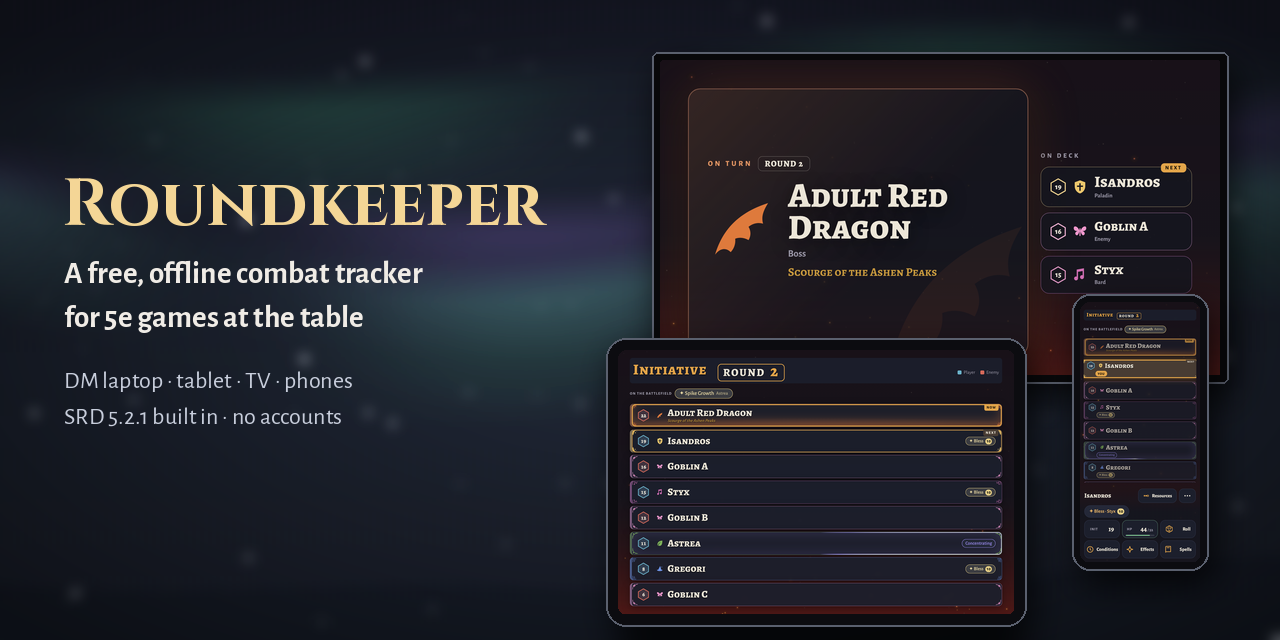
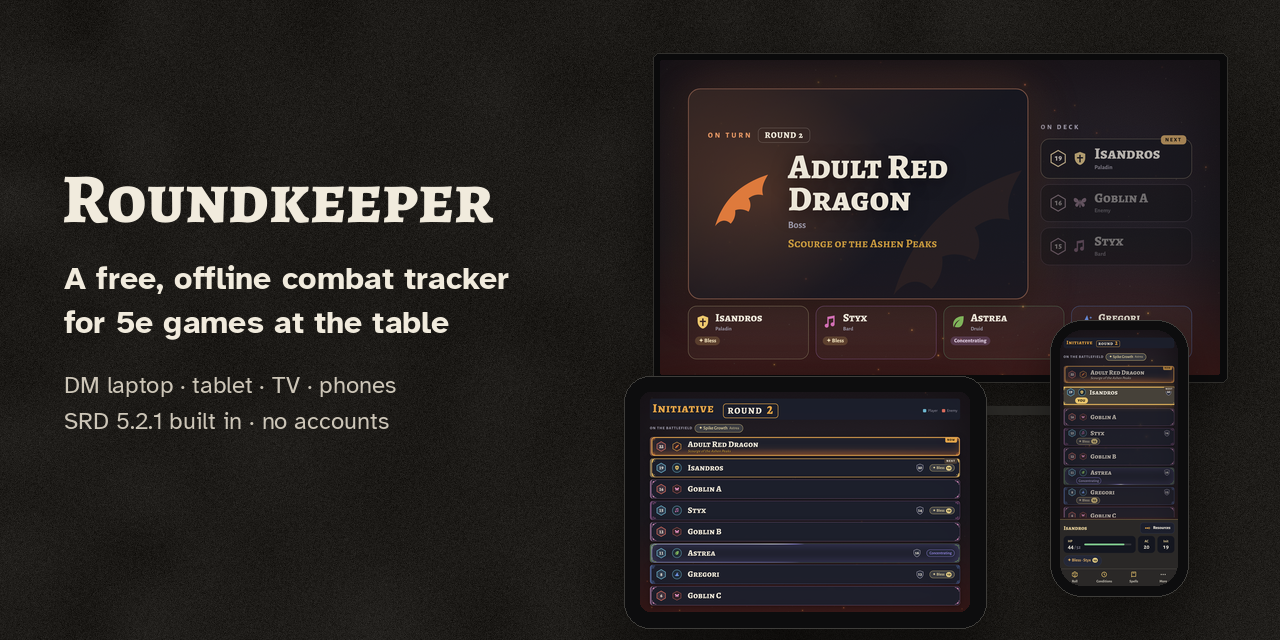
README: new videos and pictures
The four README videos are replaced with the new recordings, and every
picture is re-shot from the current app: the DM screen at 1536x864,
Party numbers and Devices as whole windows instead of crops, and the
four-screens picture and social preview redrawn in the look.py style.

Claude-Session: https://claude.ai/code/session_019XQztvrfV9fia7XPRZw9Pc

diff --git a/dev/media/four.py b/dev/media/four.py
@@ -1,36 +1,18 @@
 import sys as _sys,os as _os;_sys.path.insert(0,_os.path.dirname(_os.path.abspath(__file__)));_sys.path.insert(0,_os.path.dirname(_os.path.dirname(_os.path.abspath(__file__))));import rk  # dev/rk.py
-# One fight, four screens: the stills on the backdrop
-import bgs
-O=rk.MEDIA+'/stills/'
-from PIL import Image,ImageDraw,ImageFont,ImageFilter
-W,H=2400,1340
-bg=bgs.scene(W,H)
-F=rk.font('sansbold',40);Fs=rk.font('sans',28)
-def shadow(box,r):
-    sh=Image.new('L',(W,H),0);ImageDraw.Draw(sh).rounded_rectangle(box,r,fill=170);return sh.filter(ImageFilter.GaussianBlur(26))
-def device(img,x,y,w,h,bez,r,col=(12,12,16)):
-    global bg
-    box=(x-bez,y-bez,x+w+bez,y+h+bez)
-    bg=Image.composite(Image.new('RGB',(W,H),(0,0,0)),bg,shadow((box[0]+10,box[1]+24,box[2]+10,box[3]+24),r))
-    dd=ImageDraw.Draw(bg);dd.rounded_rectangle(box,r,fill=col,outline=(90,96,110),width=2)
-    s=Image.open(img).convert('RGB').resize((w,h),Image.LANCZOS);m=Image.new('L',(w,h),0);ImageDraw.Draw(m).rounded_rectangle((0,0,w,h),max(4,r-bez),fill=255);bg.paste(s,(x,y),m)
-def label(x,y,t,sub=""):
-    dd=ImageDraw.Draw(bg);dd.text((x,y),t,font=F,fill=(244,214,150))
-    if sub:dd.text((x,y+50),sub,font=Fs,fill=(205,195,180))
-lx,ly,lw,lh=80,230,1110,694
-device(O+'s_dm.png',lx,ly,lw,lh,16,18)
-dd=ImageDraw.Draw(bg);dd.polygon([(lx-70,ly+lh+16),(lx+lw+70,ly+lh+16),(lx+lw+20,ly+lh+52),(lx-20,ly+lh+52)],fill=(52,50,58),outline=(80,76,84));dd.rounded_rectangle((lx+lw/2-90,ly+lh+16,lx+lw/2+90,ly+lh+26),5,fill=(36,34,40))
-label(lx,ly+lh+90,"DM laptop","Runs the fight: monster HP, statblocks and hidden enemies stay here.")
-tx,ty,tw,th=1290,170,1040,585
-device(O+'s_tv.png',tx,ty,tw,th,14,10,(8,8,10))
-dd=ImageDraw.Draw(bg);dd.rectangle((tx+tw/2-14,ty+th+14,tx+tw/2+14,ty+th+56),fill=(40,38,44));dd.rounded_rectangle((tx+tw/2-170,ty+th+52,tx+tw/2+170,ty+th+64),6,fill=(48,46,52))
-label(tx,48,"TV","Whose turn it is, big enough to read across the room.")
-ax,ay,aw,ah=1300,870,555,370
-device(O+'s_tablet.png',ax,ay,aw,ah,22,30)
-label(ax-22,ay+ah+36,"Tablet on the table")
-px,py,pw,ph=1985,826,196,424
-device(O+'s_phone.png',px,py,pw,ph,12,30)
-label(px+10,py+ph+28,"Phones")
-label(80,60,"","")
-dd=ImageDraw.Draw(bg);FT=rk.font('cinzel',64);dd.text((80,56),"Roundkeeper",font=FT,fill=(244,214,150));dd.text((82,140),"One fight, four screens. Free, offline, on your own Wi-Fi.",font=Fs,fill=(205,195,180))
-bg.save(rk.MEDIA+'/four.png')
+# One fight, four screens: the stills on the table surface (look.py), for the top of the README
+from PIL import Image,ImageDraw
+import look
+O=rk.MEDIA+'/stills/';W,H=2400,1340
+im=look.surface(W,H)
+def put(im,kind,src,x,y,w,h):
+    im,r=look.device(im,kind,x,y,w,h);s=Image.open(O+src).convert('RGB').resize((w,h),Image.LANCZOS);im.paste(s,(x,y),look.mask(w,h,r));return im
+im=put(im,'laptop','s_dm.png',100,300,1180,664)
+im=put(im,'tv','s_tv.png',1420,160,860,484)
+im=put(im,'tablet','s_tablet.png',1420,800,560,373)
+im=put(im,'phone','s_phone.png',2070,760,190,411)
+d=ImageDraw.Draw(im,'RGBA')
+for t,x,y in (("The DM's laptop",100,262),("TV across the room",1420,122),("Tablet on the table",1420,762),("Phone",2070,722)): look.label(d,t,x,y,22)
+d.text((100,70),"Roundkeeper",font=look.font('title',64),fill=look.INK)
+d.text((104,160),"One fight, four screens. Free, offline, on your own Wi-Fi.",font=look.font('text',32),fill=(214,207,193))
+look.caption(d,"The dragon's turn, everywhere at once",100,1080,1200,size=40,sub="Monster HP, statblocks and hidden enemies stay on the laptop; the table sees only what you show.")
+im.save(rk.MEDIA+'/four.png')

diff --git a/dev/media/social.py b/dev/media/social.py
@@ -1,25 +1,16 @@
 import sys as _sys,os as _os;_sys.path.insert(0,_os.path.dirname(_os.path.abspath(__file__)));_sys.path.insert(0,_os.path.dirname(_os.path.dirname(_os.path.abspath(__file__))));import rk  # dev/rk.py
-# The 1280x640 social preview
-from PIL import Image,ImageDraw,ImageFont,ImageFilter
-import bgs
-O=rk.MEDIA+'/stills/'
-W,H=1280,640
-bg=bgs.scene(W,H)
-def device(img,x,y,w,h,bez,r,col=(12,12,16)):
-    global bg
-    box=(x-bez,y-bez,x+w+bez,y+h+bez)
-    sh=Image.new('L',(W,H),0);ImageDraw.Draw(sh).rounded_rectangle((box[0]+6,box[1]+14,box[2]+6,box[3]+14),r,fill=180);sh=sh.filter(ImageFilter.GaussianBlur(16))
-    bg=Image.composite(Image.new('RGB',(W,H),(0,0,0)),bg,sh)
-    d=ImageDraw.Draw(bg);d.rounded_rectangle(box,r,fill=col,outline=(90,96,110),width=2)
-    s=Image.open(img).convert('RGB').resize((w,h),Image.LANCZOS);m=Image.new('L',(w,h),0);ImageDraw.Draw(m).rounded_rectangle((0,0,w,h),max(3,r-bez),fill=255);bg.paste(s,(x,y),m)
-device(O+'s_tv.png',660,60,560,315,8,6,(8,8,10))
-device(O+'s_tablet.png',618,350,396,264,12,20)
-device(O+'s_phone.png',1080,302,120,260,8,18)
-d=ImageDraw.Draw(bg)
-FT=rk.font('cinzel',66);FB=rk.font('sansbold',31);FR=rk.font('sans',24)
-d.text((62,160),"Roundkeeper",font=FT,fill=(244,214,150))
-d.text((64,258),"A free, offline combat tracker",font=FB,fill=(240,236,230))
-d.text((64,302),"for 5e games at the table",font=FB,fill=(240,236,230))
-d.text((64,368),"DM laptop · tablet · TV · phones",font=FR,fill=(200,206,220))
-d.text((64,404),"SRD 5.2.1 built in · no accounts",font=FR,fill=(200,206,220))
-bg.save(rk.MEDIA+'/social-preview.png')
+# The 1280x640 social preview, on the table surface (look.py)
+from PIL import Image,ImageDraw
+import look
+O=rk.MEDIA+'/stills/';W,H=1280,640
+im=look.surface(W,H)
+def put(im,kind,src,x,y,w,h):
+    im,r=look.device(im,kind,x,y,w,h);s=Image.open(O+src).convert('RGB').resize((w,h),Image.LANCZOS);im.paste(s,(x,y),look.mask(w,h,r));return im
+im=put(im,'tv','s_tv.png',660,60,560,315)
+im=put(im,'tablet','s_tablet.png',640,392,330,220)
+im=put(im,'phone','s_phone.png',1060,330,118,256)
+d=ImageDraw.Draw(im)
+d.text((62,150),"Roundkeeper",font=look.font('title',70),fill=look.INK)
+for i,t in enumerate(("A free, offline combat tracker","for 5e games at the table")): d.text((64,258+i*44),t,font=look.font('bold',32),fill=look.INK)
+for i,t in enumerate(("DM laptop · tablet · TV · phones","SRD 5.2.1 built in · no accounts")): d.text((64,370+i*36),t,font=look.font('text',24),fill=(205,198,184))
+im.save(rk.MEDIA+'/social-preview.png')

diff --git a/dev/media/stills.py b/dev/media/stills.py
@@ -12,7 +12,7 @@ async def main():
     want=lambda k: not only or k in only
     async with async_playwright() as p:
         b=await p.chromium.launch(args=['--no-proxy-server'])
-        dm=await (await b.new_context(viewport={'width':1440,'height':900},device_scale_factor=2)).new_page()
+        dm=await (await b.new_context(viewport={'width':1536,'height':864},device_scale_factor=2)).new_page()   # a 1920x1080 laptop at 125 %
         await dm.goto('http://127.0.0.1:8765/');await asyncio.sleep(1.5)
         async def S(js,w=0): await T(dm,js);await asyncio.sleep(w)
         await S(setup(TH,SC,False,"d")+BASE,.6)
@@ -43,7 +43,7 @@ async def main():
             await dm.screenshot(path=O+'g_ctrlk.png');await dm.keyboard.press('Escape');await asyncio.sleep(.3)
         if want('party'):
             await S("byId('i').pst={ac:18,pp:11,pi:13,pv:9,dc:14,at:Date.now()};byId('s').pst={ac:14,pp:12,pi:14,pv:11,dc:15,at:Date.now()};byId('a').pst={ac:15,pp:15,pi:15,pv:10,dc:14,at:Date.now()};byId('gr').pst={ac:12,pp:11,pi:11,pv:14,dc:15,at:Date.now()};commit();partySheet()",1)
-            await dm.screenshot(path=O+'g_party.png');await S("closeSheet()",.3)
+            await dm.locator('.sheet:visible').last.screenshot(path=O+'g_party.png');await S("closeSheet()",.3)
         if want('cond'):
             await S("byId('g1').conds.push('Restrained');byId('s').conds.push('Frightened');byId('i').conds.push('Prone');commit()",2.2)
             await tb.screenshot(path=O+'g_cond.png')
@@ -68,7 +68,7 @@ async def main():
             await S("state.ended=null;delete state.hdywt;state.cstat={};state.nstat={};for(const k of ['d','g1','g2','g3']){const g=byId(k);g.hp=g.hpMax;g.down=false};commit()",2)
         if want('devices'):
             import vrec;vrec.present();await asyncio.sleep(2.5)
-            await S("devSheet()",2.5);await dm.screenshot(path=O+'g_devices.png');await S("closeSheet()",.3)
+            await S("devSheet()",2.5);bb=await dm.locator('.sheet:visible').last.bounding_box();await dm.screenshot(path=O+'g_devices.png',clip=bb)   # (it redraws as phones check in);await S("closeSheet()",.3)
         if want('spells'):
             await T(ph,"pSheet='book';spellScope='all';bookQ='';renderPSheet()");await asyncio.sleep(2.5);await ph.screenshot(path=O+'g_spells.png')
             await T(ph,"spView={n:'Fireball',s:'SRD52',from:'book'};pSheet='spell';renderPSheet();refGet('spell','Fireball','SRD52',true).then(d=>{spView.d=d;renderPSheet()})");await asyncio.sleep(1.5);await ph.screenshot(path=O+'g_spell.png')

diff --git a/dev/media/publish.py b/dev/media/publish.py
@@ -15,8 +15,8 @@ def save(im,name,w=None,crop=None):
     im.save(os.path.join(D,name),quality=88,optimize=True,progressive=True);print('media/'+name,im.size)
 for dst,(src,w) in JPG.items():
     if os.path.exists(S+src+'.png'): save(Image.open(S+src+'.png'),dst+'.jpg',w)
-if os.path.exists(S+'g_party.png'): save(Image.open(S+'g_party.png'),'party.jpg',900,(850,450,2030,1340))  # the party sheet only
-if os.path.exists(S+'g_devices.png'): save(Image.open(S+'g_devices.png'),'devices.jpg',1000,(700,90,2180,1700))  # the Devices window only
+if os.path.exists(S+'g_party.png'): save(Image.open(S+'g_party.png'),'party.jpg',900)  # the party sheet only (an element shot)
+if os.path.exists(S+'g_devices.png'): save(Image.open(S+'g_devices.png'),'devices.jpg',1000)  # the Devices window only (an element shot)
 if os.path.exists(rk.MEDIA+'/four.png'): save(Image.open(rk.MEDIA+'/four.png'),'four-screens.jpg',1600)
 if os.path.exists(rk.MEDIA+'/social-preview.png'): shutil.copy(rk.MEDIA+'/social-preview.png',os.path.join(D,'social-preview.png'));print('media/social-preview.png')
 for g in ['boss']:   # the tablet, TV and phone GIFs gave way to the three videos

diff --git a/README.md b/README.md
@@ -27,7 +27,7 @@ It comes with the **SRD 5.2.1** built in: 331 monsters with clickable statblocks
 >
 > *Not a virtual tabletop:* there are no maps or tokens, and it isn't for online play. It's made for a group sitting around a real table.
 
-https://github.com/user-attachments/assets/f7578be1-2bc0-4fc1-84af-e42ae995edd6
+https://github.com/user-attachments/assets/6a9f7b1f-0586-4f68-b038-b5e7c5fdd433
 
 <p align="center"><sub>One fight on all four screens at once: the DM's laptop, the tablet, the TV and a phone (50 seconds, no sound).</sub></p>
 
@@ -47,7 +47,7 @@ Each screen shows what its people need, and only that. Monster HP, statblocks, h
 
 ## The DM's laptop
 
-https://github.com/user-attachments/assets/dca33bcd-6d6c-4f08-8144-5024e681f508
+https://github.com/user-attachments/assets/ad0e8f23-1c19-4388-82c5-350a6e711e61
 
 <p align="center"><sub>From the DM's seat: monsters from the built-in SRD, the statblock, a roll call, Hit several, conditions, Ctrl+K, Devices and Atmosphere (under a minute, no sound).</sub></p>
 
@@ -95,7 +95,7 @@ The order is a table, one row per creature: initiative, picture, name, condition
 
 ## The tablet and the TV
 
-https://github.com/user-attachments/assets/8679f0ea-d8c8-46c8-9abf-72066ab79cb9
+https://github.com/user-attachments/assets/9c7fc2f0-5240-4582-a20d-53a0d9a02c87
 
 <p align="center"><sub>What the players see: the tablet on the table and the TV across the room, side by side through one fight (under a minute, no sound).</sub></p>
 
@@ -160,7 +160,7 @@ Pick a theme, then change any part of it: colours, fonts, row style, an animated
 
 ## On players' phones
 
-https://github.com/user-attachments/assets/74e67b4d-6e6c-4e54-afd7-6e985122e99a
+https://github.com/user-attachments/assets/7b8dfa4b-25bb-4b2c-9c3a-590fa657dc16
 
 <p align="center"><sub>A player's phone with the tablet beside it: joining, initiative, a spell on the table, resources, the sheet, a roll call, Concentration and death saves (under a minute, no sound).</sub></p>
 
